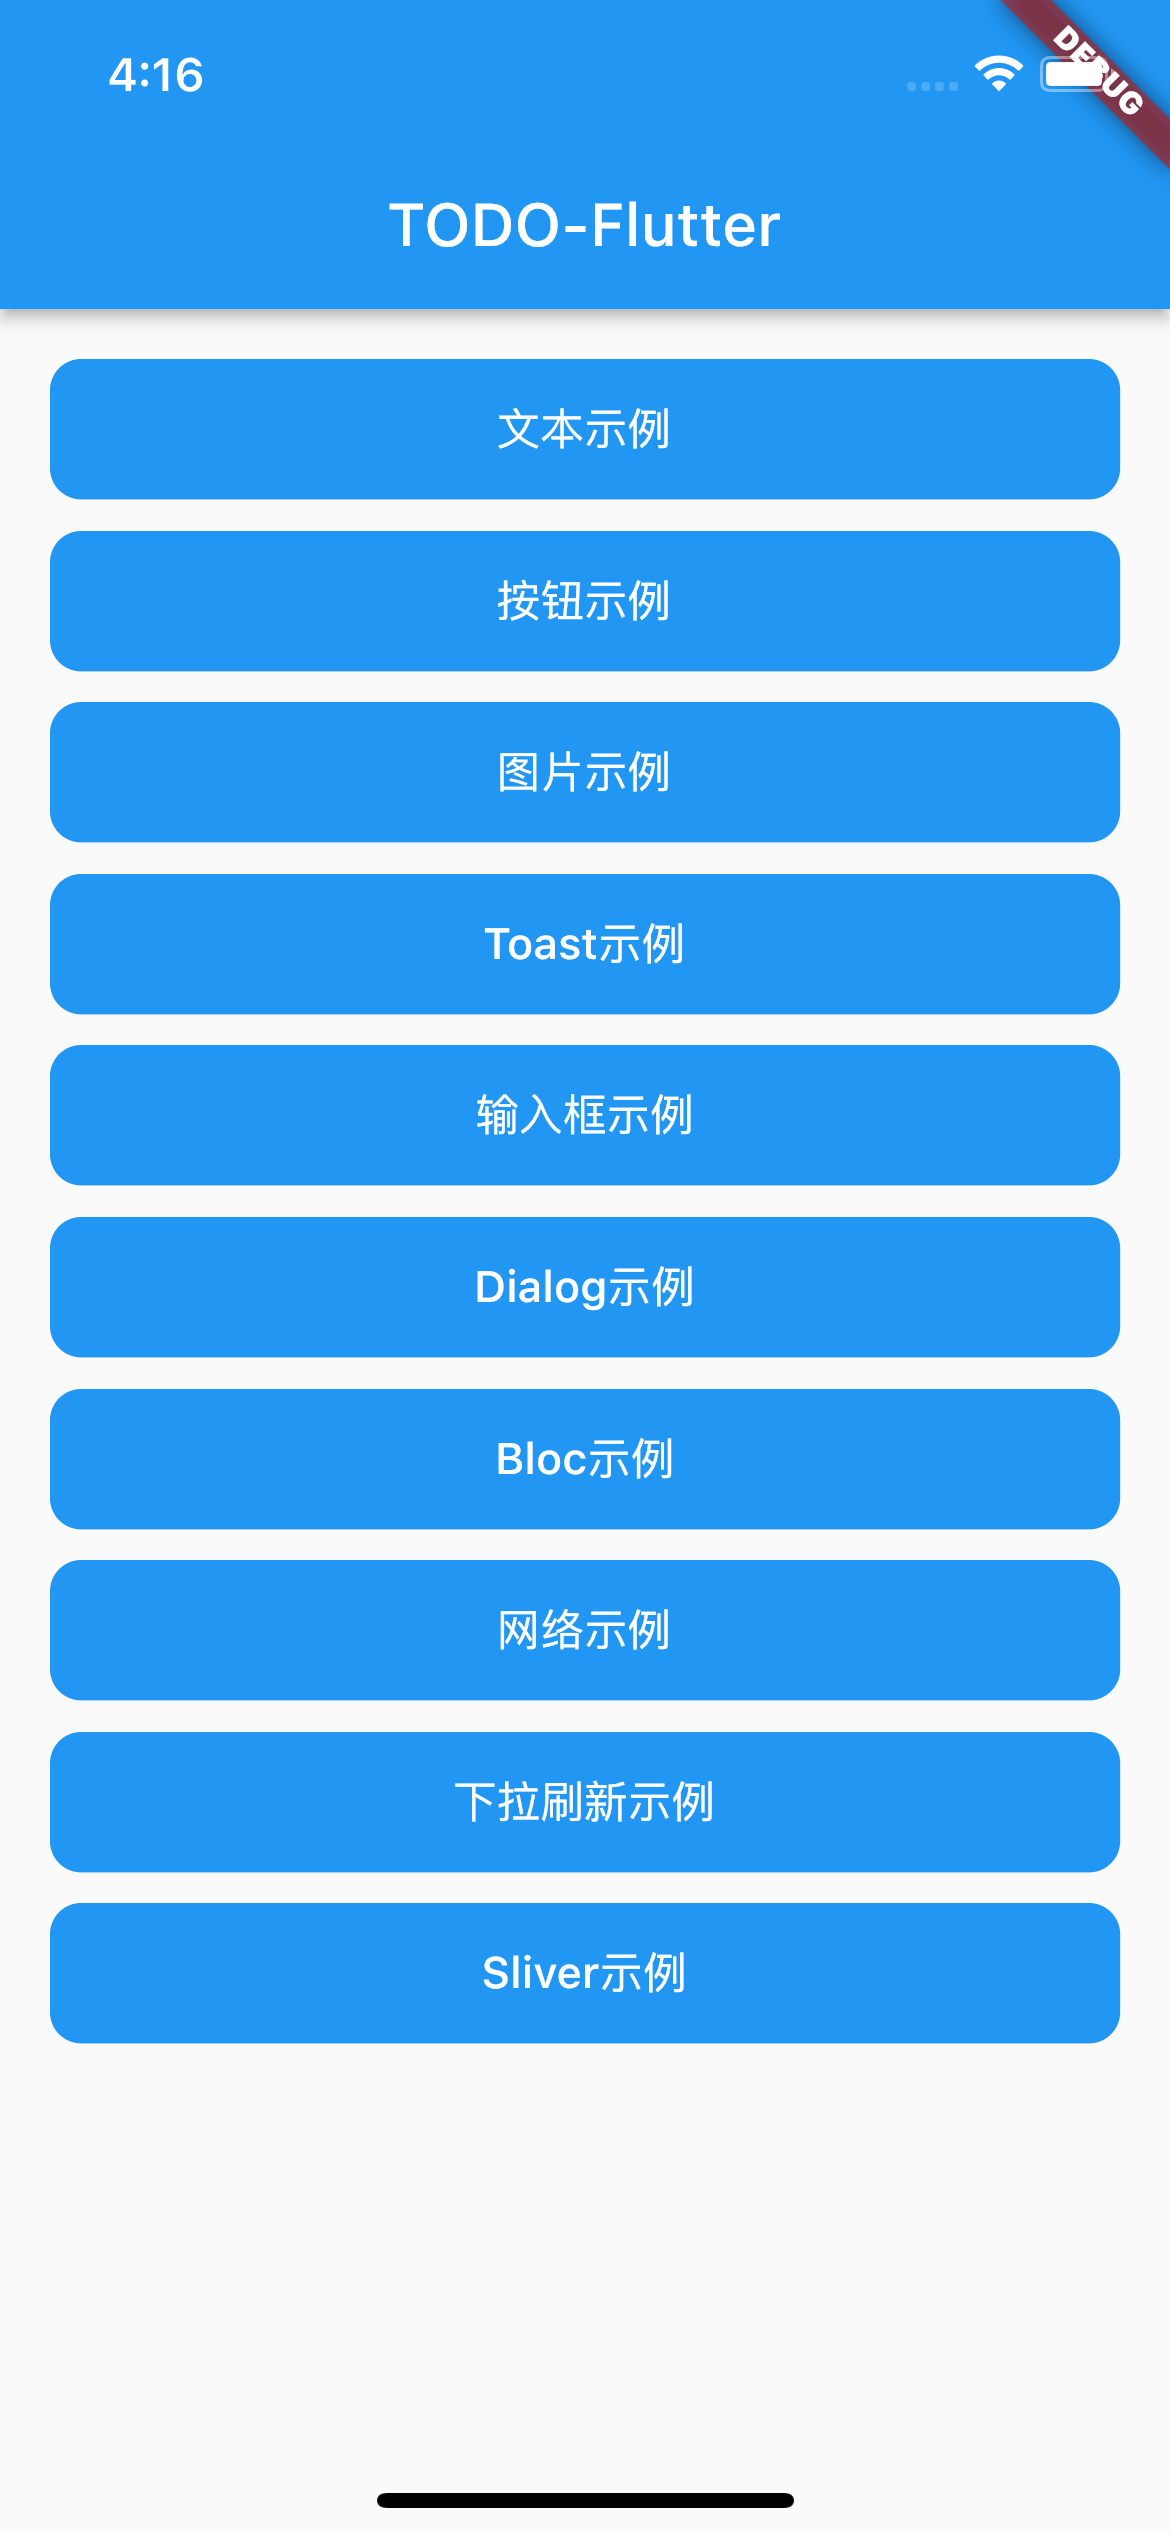
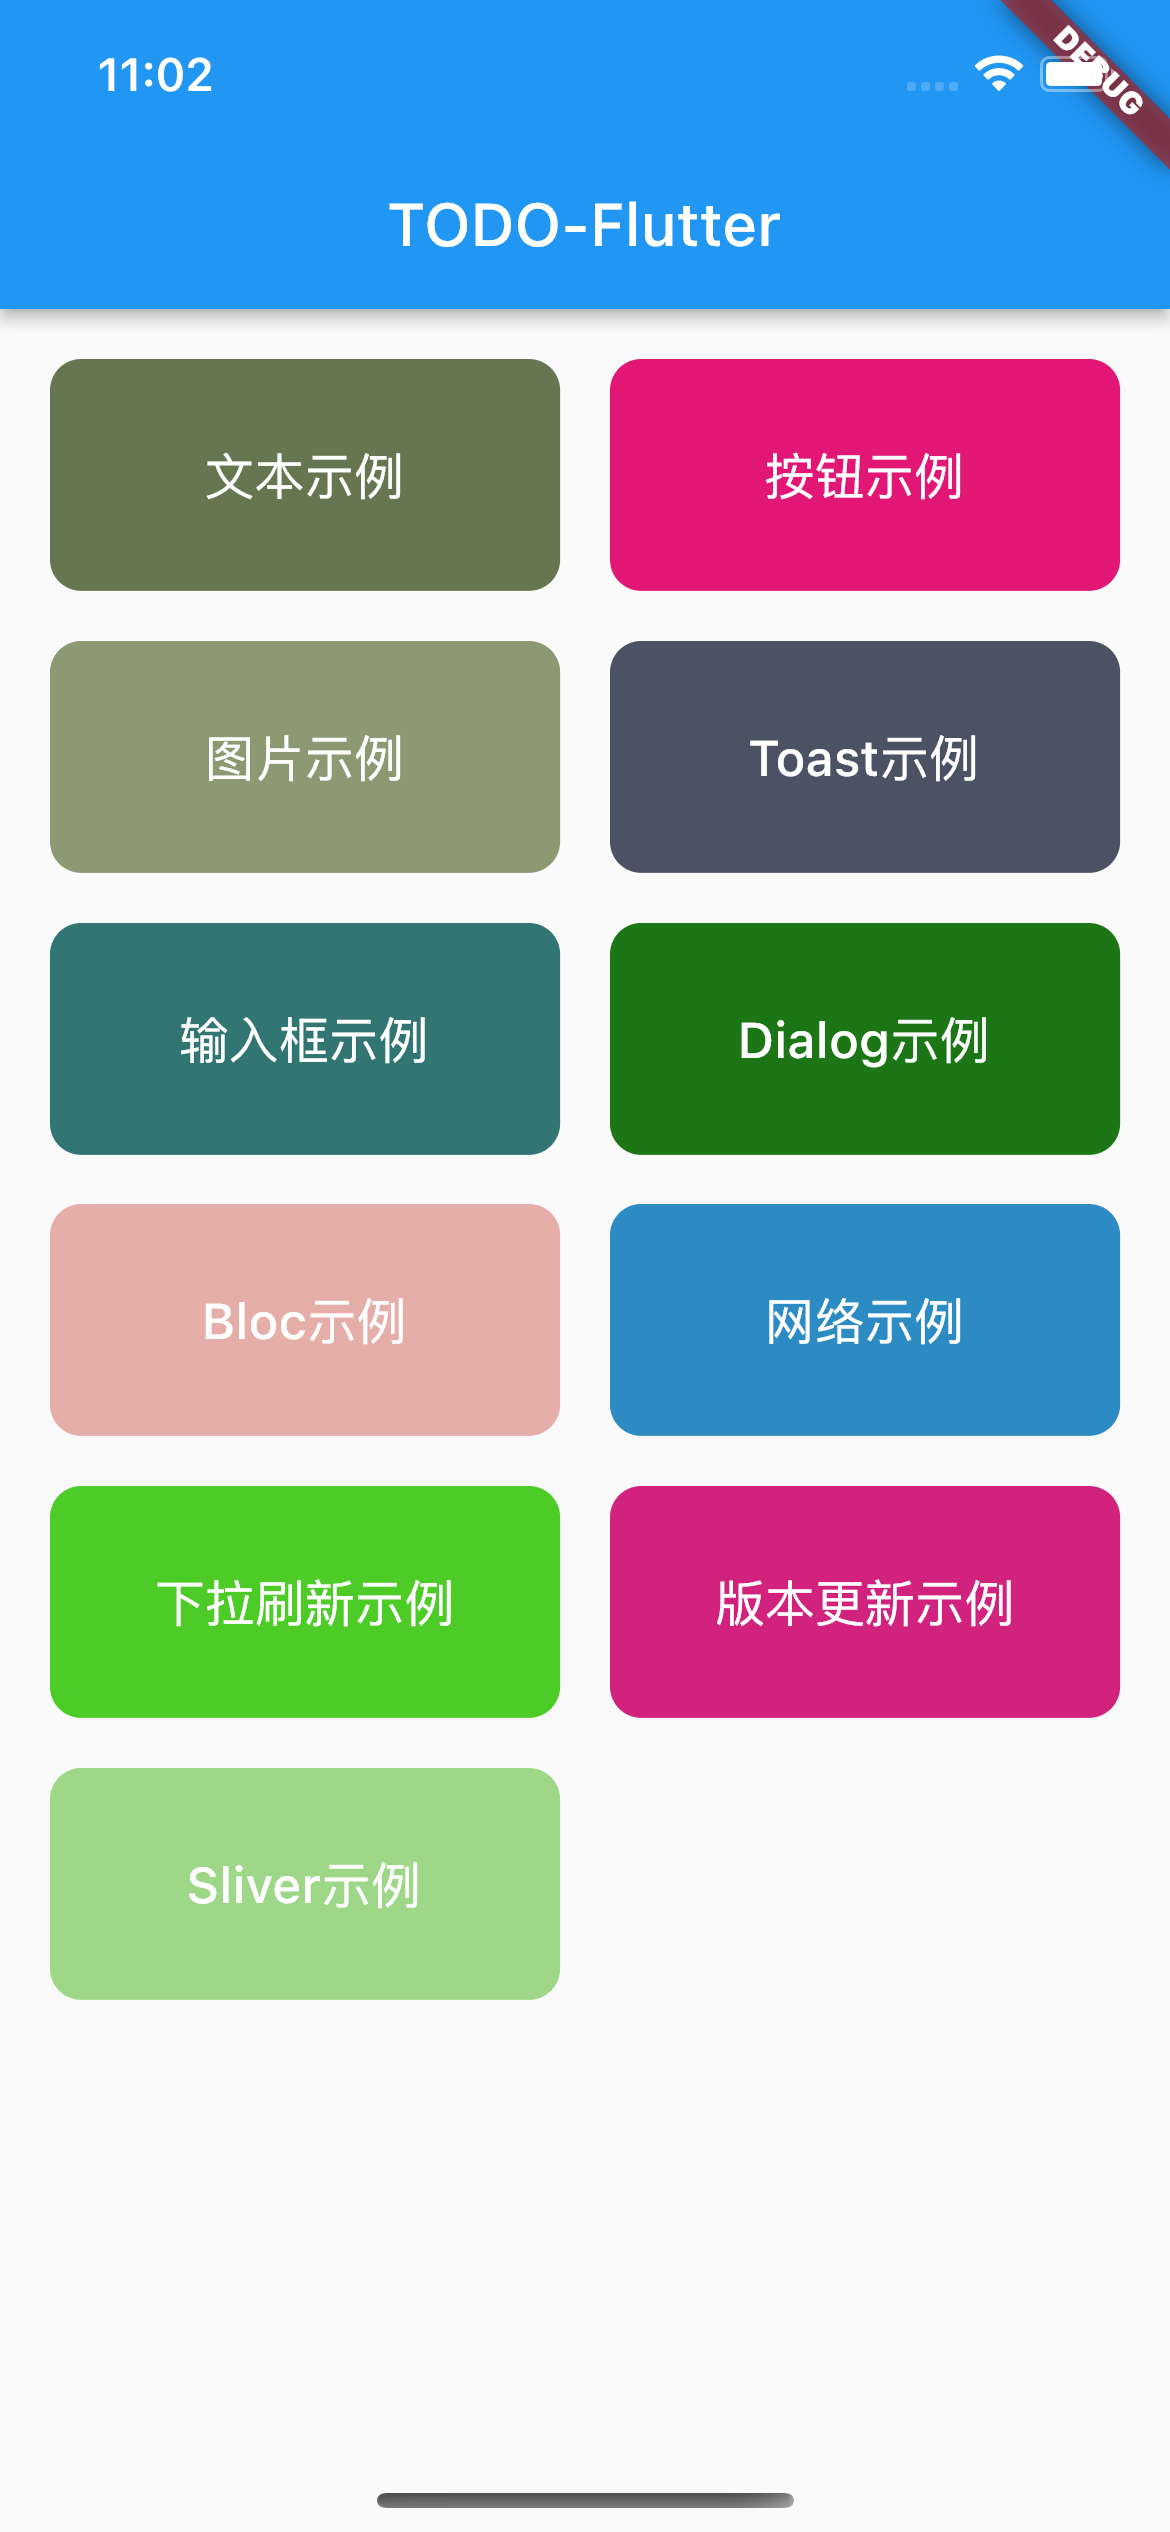
update

diff --git a/example/lib/view/app_update_page.dart b/example/lib/view/app_update_page.dart
@@ -5,8 +5,6 @@
 
 import 'package:flutter/material.dart';
 import 'package:todo_flutter/todo_flutter.dart';
-import 'package:flutter_app_update/azhon_app_update.dart';
-import 'package:flutter_app_update/update_model.dart';
 
 class AppUpdatePage extends StatefulWidget {
   const AppUpdatePage({Key? key}) : super(key: key);

diff --git a/lib/todo_flutter.dart b/lib/todo_flutter.dart
@@ -52,3 +52,4 @@ export 'package:dio/dio.dart';
 export 'package:flutter_bloc/flutter_bloc.dart';
 export 'package:fluttertoast/fluttertoast.dart';
 export 'package:module_bridge/module_bridge.dart';
+export 'package:flutter_app_update/flutter_app_update.dart';
